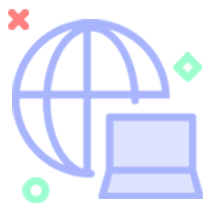
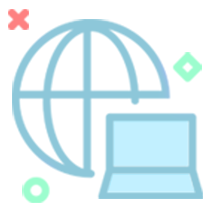
team added

Changed region(s): [[0.0566, 0.0849, 0.7925, 0.8491], [0.4528, 0.5377, 0.9623, 0.9623]]

diff --git a/src/app/about/about.component.html b/src/app/about/about.component.html
@@ -135,22 +135,22 @@
   <!-- WHY CHOOSE US AREA ENDS-->
 
   <!-- TEAM STARTS -->
-  <!-- <div class="team section-pad-lg section-pad nopb">
+  <div class="team section-pad-lg section-pad nopb">
     <div class="container">
       <div class="row justify-content-center">
         <div class="col-lg-6 text-center">
           <div class="sec-heading">
             <h2 class="sec-title-lg">Meet the team</h2>
-            <p class="lead">
+            <!-- <p class="lead">
               Duis aute irure dolor in reprehenderit in voluptate velit esse
               cillum dolore eu fugiat nulla pariatur.
-            </p>
+            </p> -->
           </div>
         </div>
       </div>
 
       <div class="row text-center mtn-x3">
-        <div class="col-md-3 col-6">
+        <!-- <div class="col-md-3 col-6">
           <div class="team-content">
             <div class="team-photo">
               <img src="../../assets/images/team-a-lg.jpg" alt="team-member" />
@@ -159,20 +159,48 @@
               <h2>Michel Logan<span>Founder</span></h2>
             </div>
           </div>
-        </div>
+        </div> -->
 
-        <div class="col-md-3 col-6">
+        <div class="col-md-12 col-12">
           <div class="team-content">
             <div class="team-photo">
-              <img src="../../assets/images/team-b-lg.jpg" alt="team-member" />
+              <img src="../../assets/images/team-b-lg.jpeg" alt="team-member" />
             </div>
             <div class="team-info">
-              <h2>David sean<span>Designer</span></h2>
+              <h2>
+                Anand Rajan<span class="mt-3"
+                  >An action-oriented leader with a strong track record of 20
+                  plus years, having experience in various business sectors
+                  across consumer banking, insurance and direct selling
+                  industry. The core competencies include strategic planning,
+                  marketing, channel management and client servicing.</span
+                >
+              </h2>
+              <div class="social">
+                <div class="social-icon">
+                  <a href="tel:+91 73959 86006"><i class="fa fa-phone"></i></a>
+                </div>
+                <div class="social-icon">
+                  <a href="mailto: info@techswaps.org"
+                    ><i class="fa fa-envelope"></i
+                  ></a>
+                </div>
+                <div class="social-icon">
+                  <a
+                    href="https://www.facebook.com/Techswap-Solutions-110975548220327/"
+                    target="blank"
+                    ><i class="fab fa-facebook-f"></i
+                  ></a>
+                </div>
+                <div class="social-icon">
+                  <a href="" target="blank"><i class="fab fa-instagram"></i></a>
+                </div>
+              </div>
             </div>
           </div>
         </div>
 
-        <div class="col-md-3 col-6">
+        <!-- <div class="col-md-3 col-6">
           <div class="team-content">
             <div class="team-photo">
               <img src="../../assets/images/team-c-lg.jpg" alt="team-member" />
@@ -181,9 +209,9 @@
               <h2>Alfred john<span>Developer</span></h2>
             </div>
           </div>
-        </div>
+        </div> -->
 
-        <div class="col-md-3 col-6">
+        <!-- <div class="col-md-3 col-6">
           <div class="team-content">
             <div class="team-photo">
               <img src="../../assets/images/team-d-lg.jpg" alt="team-member" />
@@ -192,10 +220,10 @@
               <h2>Thomas lucas<span>Team member</span></h2>
             </div>
           </div>
-        </div>
+        </div> -->
       </div>
     </div>
-  </div> -->
+  </div>
   <!-- TEAM ENDS -->
 
   <!-- TESTIMONIAL STARTS -->

diff --git a/src/app/footer/footer.component.html b/src/app/footer/footer.component.html
@@ -25,13 +25,13 @@
             </ul>
           </div>
         </div>
-        <div class="col-md-4">
+        <!-- <div class="col-md-4">
           <div class="footer-widget">
             <p style="margin-top: 45px" class="footer-list">
               Contact Number: <a href="tel:08025043006">080-25043006</a>
             </p>
           </div>
-        </div>
+        </div> -->
         <!-- col -->
 
         <!-- <div class="col-md-3">
@@ -46,27 +46,36 @@
         </div> -->
         <!-- col -->
 
-        <!-- <div class="col-md-3">
+        <div class="col-md-3">
           <div class="footer-widget">
             <ul class="footer-list">
-              <li>Coimbatore</li>
-              <li>info@yourmail.com</li>
-                <li>West anderson court 32</li>
-                <li>London , UK</li>
+              <li>Contact Us</li>
+              <!-- <li>info@yourmail.com</li>
+              <li>West anderson court 32</li>
+              <li>London , UK</li> -->
             </ul>
             <div class="social">
               <div class="social-icon">
-                <a href="#"><i class="fab fa-facebook-f"></i></a>
+                <a href="tel:+9108025043006"><i class="fa fa-phone"></i></a>
               </div>
               <div class="social-icon">
-                <a href="#"><i class="fab fa-twitter"></i></a>
+                <a href="mailto: info@techswaps.org"
+                  ><i class="fa fa-envelope"></i
+                ></a>
               </div>
               <div class="social-icon">
-                <a href="#"><i class="fab fa-instagram"></i></a>
+                <a
+                  href="https://www.facebook.com/Techswap-Solutions-110975548220327/"
+                  target="blank"
+                  ><i class="fab fa-facebook-f"></i
+                ></a>
+              </div>
+              <div class="social-icon">
+                <a href="" target="blank"><i class="fab fa-instagram"></i></a>
               </div>
             </div>
           </div>
-        </div> -->
+        </div>
         <!-- col -->
       </div>
       <!-- row -->

diff --git a/src/assets/css/theme.css b/src/assets/css/theme.css
@@ -137,7 +137,7 @@ Updated	 :	18.08.2018
 }
 
 .team-photo img {
-  border: 8px solid #ccd8ff;
+  border: 8px solid #8bc5d7;
 }
 
 .pricing-box .pricing-title {
@@ -183,7 +183,7 @@ Updated	 :	18.08.2018
 }
 
 .social-icon {
-  background-color: #c8cfe7;
+  background-color: #8bc5d7;
 }
 .social-icon a {
   color: #424c6d;
